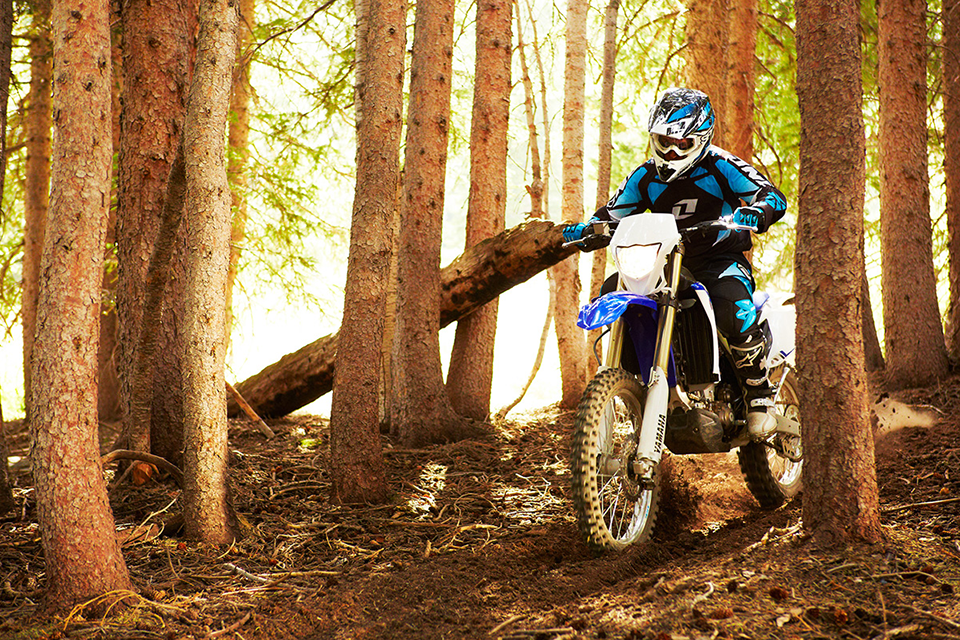
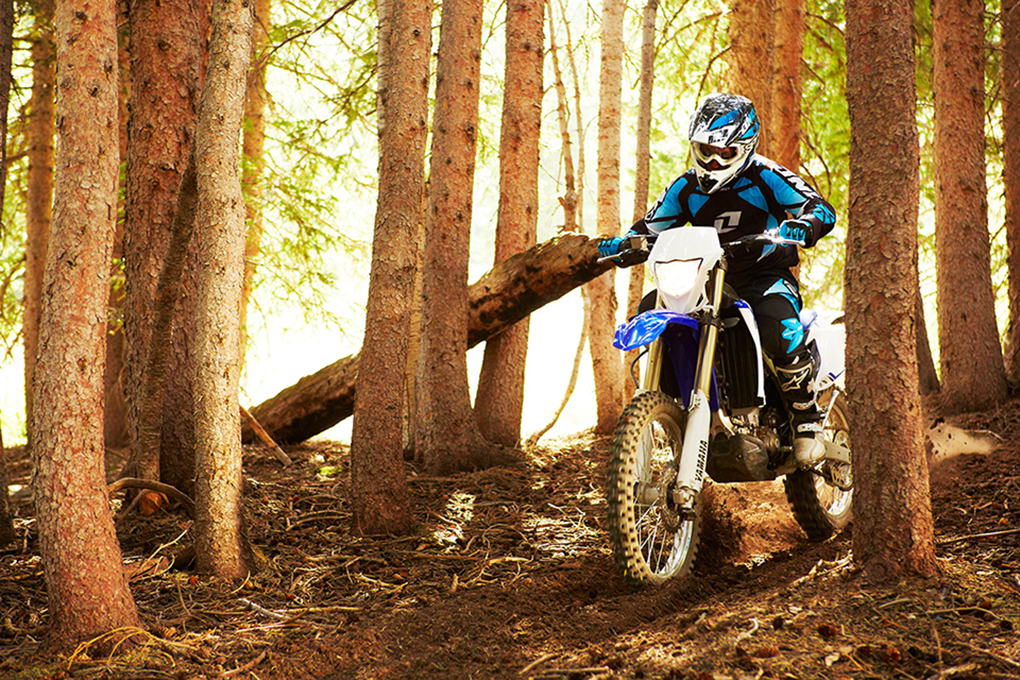
changes

diff --git a/public_html/dbiking.html b/public_html/dbiking.html
@@ -43,6 +43,17 @@
           <script src="https://oss.maxcdn.com/html5shiv/3.7.2/html5shiv.min.js"></script>
           <script src="https://oss.maxcdn.com/respond/1.4.2/respond.min.js"></script>
         <![endif]-->
+        <style>
+            #tf-home{
+	background: url("img/biking/dirt_biking/dbikingwoods.png"),
+	url(../img/mt_02.jpg);
+	background-position: center, center;
+
+	background-repeat: no-repeat, no-repeat;
+	color: #cfcfcf;
+        background-position-y: 42px;
+}
+        </style>
     </head>
     <body>
         <!--
@@ -181,16 +192,14 @@
                 <div class="row">
                     <div>
                         <div class="col-md-4">
-                            <h1>Dirt Biking</h1>
-                            <p>Dirt biking in Montana. 
-                                Maecenas porta sem vitae quam maximus mattis. Mauris vitae pharetra massa, nec malesuada risus. Mauris eleifend nec neque ut maximus.  </p>
+                            <h1>Dirt Biking in Montana</h1>
+                            <h2>The area</h2>
+                            <p>From logging roads to highline trails, Montana has the best areas to unleash your inner daredevil.</p>
                         </div>
                         <div class="col-md-4">
-                            <h3>Content</h3>
-                            <p>Lorem ipsum dolor sit amet, consectetur adipiscing elit. Donec non risus elementum, iaculis ante ut, maximus diam. Mauris sed justo efficitur, laoreet nisi a, tincidunt ligula. In sagittis lobortis dolor vel semper. Curabitur in erat at sapien dictum facilisis. Aliquam imperdiet convallis libero sit amet maximus. Fusce id tellus et augue vehicula rhoncus non quis diam. Nulla malesuada, libero sed interdum placerat, libero tortor mattis erat, quis eleifend lacus metus maximus tellus. Duis varius leo felis, non porta purus ultricies a. In laoreet ipsum quam, ut tincidunt nibh auctor a. Morbi dictum, ligula ultricies feugiat tristique, ex mi condimentum odio, id euismod turpis quam vel ex. Donec dignissim efficitur dolor, sit amet pellentesque quam tempor ac. Mauris auctor eget metus in accumsan. 
-
-                                Maecenas porta sem vitae quam maximus mattis. Mauris vitae pharetra massa, nec malesuada risus. Mauris eleifend nec neque ut maximus.  </p>
-                            <p><a href="#">Click this link!</a></p>
+                            <h3>Hitting the trails in Northfork, MT.</h3>
+                            <img src="img/biking/dirt_biking/dbikingwoods.png" alt="Dirt Biking" style="height: 250px; width:350px; position: center;">
+                            
                         </div>
                         <div class="col-md-4">
                             <h3>Content</h3>

diff --git a/public_html/css/style.css b/public_html/css/style.css
@@ -306,7 +306,7 @@ img.img-circle.team-img {
 	background-attachment: fixed;
 	background-repeat: no-repeat;
 	color: #ffffff;
-}
+}0
 
 #tf-clients .overlay{
 	background: -moz-linear-gradient(top,  rgba(0,0,0,0.8) 0%, rgba(0,0,0,0.73) 17%, rgba(0,0,0,0.66) 35%, rgba(0,0,0,0.55) 62%, rgba(0,0,0,0.4) 100%); /* FF3.6+ */
